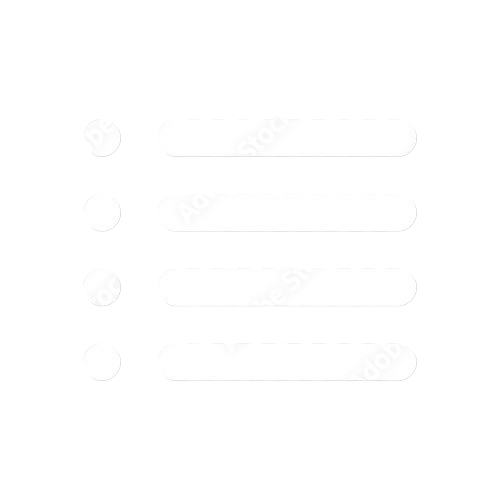
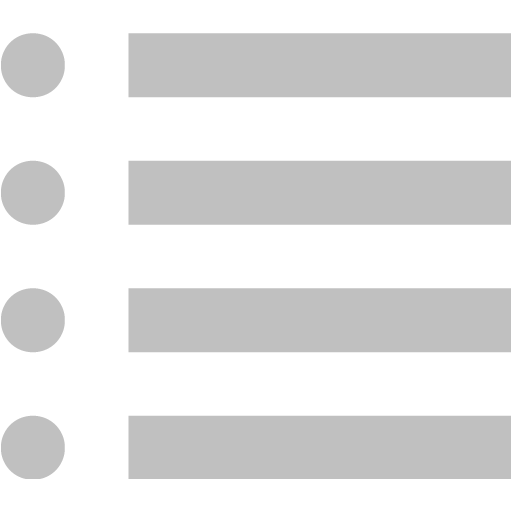
Alteração na identidade visual

diff --git a/src/app/components/header/header.component.css b/src/app/components/header/header.component.css
@@ -2,8 +2,7 @@ header {
     display: flex;
     justify-content: space-evenly;
     align-items: center;
-    background-color: #003366;
-    color: #fff;
+    background-color: #fff;
     padding: 1rem;
     position: fixed;
     top: 0;
@@ -25,7 +24,6 @@ header {
         align-items: center;
         gap: 0.5rem;
         text-decoration: none;
-        color: #fff;
         
         .icon {
             width: 2rem;
@@ -45,14 +43,14 @@ header {
     }
     
     .active-page .code {
-        background-image: url('../../../../public/img/icon-code-select.png');
+        background-image: url('../../../../public/img/icon-code-black.png');
     }
 
     span {
-        color: #fff;
-        font-family: 'Oswald', sans-serif;
-        font-weight: 800;
-        font-size: 0.875rem;
+        font-family: cursive;
+        color: #C0C0C0;
+        font-weight: 1000;
+        font-size: 20px;
 
         &:hover {
             transform: scale(1.1);
@@ -61,7 +59,7 @@ header {
     }
 
     .active-page span {
-        color: #a4d484;
+        color: #000000;
     }
 }
 
@@ -76,7 +74,6 @@ header {
         align-items: center;
         gap: 0.5rem;
         text-decoration: none;
-        color: #fff;
 
         .icon {
             width: 2rem;
@@ -96,7 +93,7 @@ header {
     }
     
     .active-page .about {
-        background-image: url('../../../../public/img/icon-about-select.png');
+        background-image: url('../../../../public/img/icon-about-black.png');
     }
 
     .experience {
@@ -104,15 +101,15 @@ header {
     }
     
     .active-page .experience {
-        background-image: url('../../../../public/img/icon-experience-select.png');
+        background-image: url('../../../../public/img/icon-experience-black.png');
     }
 
     .projects {
-        background-image: url('../../../../public/img/icon-projects.png');
+        background-image: url('../../../../public/img/icon-project.png');
     }
     
     .active-page .projects {
-        background-image: url('../../../../public/img/icon-projects-select.png');
+        background-image: url('../../../../public/img/icon-project-black.png');
     }
 
     .contact {
@@ -120,13 +117,14 @@ header {
     }
     
     .active-page .contact {
-        background-image: url('../../../../public/img/icon-contact-select.png');
+        background-image: url('../../../../public/img/icon-contact-black.png');
     }
     
     span {
-        font-family: 'Oswald', sans-serif;
-        font-weight: 800;
-        font-size: 0.875rem;
+        font-family: cursive;
+        font-weight: 1000;
+        font-size: 18px;
+        color: #C0C0C0;
 
         &:hover {
             transform: scale(1.1);
@@ -135,7 +133,7 @@ header {
     }
 
     .active-page span {
-        color: #a4d484;
+        color: #000000;
     }
 }
 

diff --git a/src/app/components/header-mobile/header-mobile.component.css b/src/app/components/header-mobile/header-mobile.component.css
@@ -1,6 +1,7 @@
 .header-mobile {
 
     flex: 1 100%;
+    margin-top: 1rem;
 
     a {
         display: flex;
@@ -8,7 +9,6 @@
         flex-direction: column;
         padding: 0.5rem;
         text-decoration: none;
-        color: #fff;
 
         .icon {
             width: 2rem;
@@ -28,7 +28,7 @@
     }
     
     .active-page .about {
-        background-image: url('../../../../public/img/icon-about-select.png');
+        background-image: url('../../../../public/img/icon-about-black.png');
     }
 
     .experience {
@@ -36,15 +36,15 @@
     }
     
     .active-page .experience {
-        background-image: url('../../../../public/img/icon-experience-select.png');
+        background-image: url('../../../../public/img/icon-experience-black.png');
     }
 
     .projects {
-        background-image: url('../../../../public/img/icon-projects.png');
+        background-image: url('../../../../public/img/icon-project.png');
     }
     
     .active-page .projects {
-        background-image: url('../../../../public/img/icon-projects-select.png');
+        background-image: url('../../../../public/img/icon-project-black.png');
     }
 
     .contact {
@@ -52,13 +52,14 @@
     }
     
     .active-page .contact {
-        background-image: url('../../../../public/img/icon-contact-select.png');
+        background-image: url('../../../../public/img/icon-contact-black.png');
     }
     
     span {
         font-family: 'Oswald', sans-serif;
         font-weight: 800;
         font-size: 0.875rem;
+        color: #C0C0C0;
 
         &:hover {
             transform: scale(1.1);
@@ -67,6 +68,6 @@
     }
 
     .active-page span {
-        color: #a4d484;
+        color: #000000;
     }
 }

diff --git a/src/index.html b/src/index.html
@@ -6,6 +6,9 @@
   <base href="/">
   <meta name="viewport" content="width=device-width, initial-scale=1">
   <link rel="icon" type="image/x-icon" href="img/icon-code.png">
+  <link rel="preconnect" href="https://fonts.googleapis.com">
+  <link rel="preconnect" href="https://fonts.gstatic.com" crossorigin>
+  <link href="https://fonts.googleapis.com/css2?family=Baskervville+SC&family=Nunito:ital,wght@0,200..1000;1,200..1000&display=swap" rel="stylesheet">
 </head>
 <body>
   <app-root></app-root>

diff --git a/src/app/components/header/header.component.ts b/src/app/components/header/header.component.ts
@@ -37,7 +37,7 @@ export class HeaderComponent {
   clickMenuMobile(): void {
     this.isMobile = !this.isMobile;
     if(this.isMobile){
-      this.iconMobile = 'img/icon-close.png';
+      this.iconMobile = 'img/icon-menu-close.png';
     } else {
       this.iconMobile = 'img/icon-menu-mobile.png';
     }

diff --git a/src/app/components/footer/footer.component.css b/src/app/components/footer/footer.component.css
@@ -1,10 +1,12 @@
 .footer {
-    background-color: #F5F5F5;
+    background-color:#F5F5F5;
+    font-family: cursive;
     color: #000000; 
     text-align: center;
     padding: 1.5rem;
     position: fixed; 
     bottom: 0;
     width: 100%; 
+    box-shadow: 0 0 6px 4px rgba(0, 0, 0, 0.1);
   }
   
